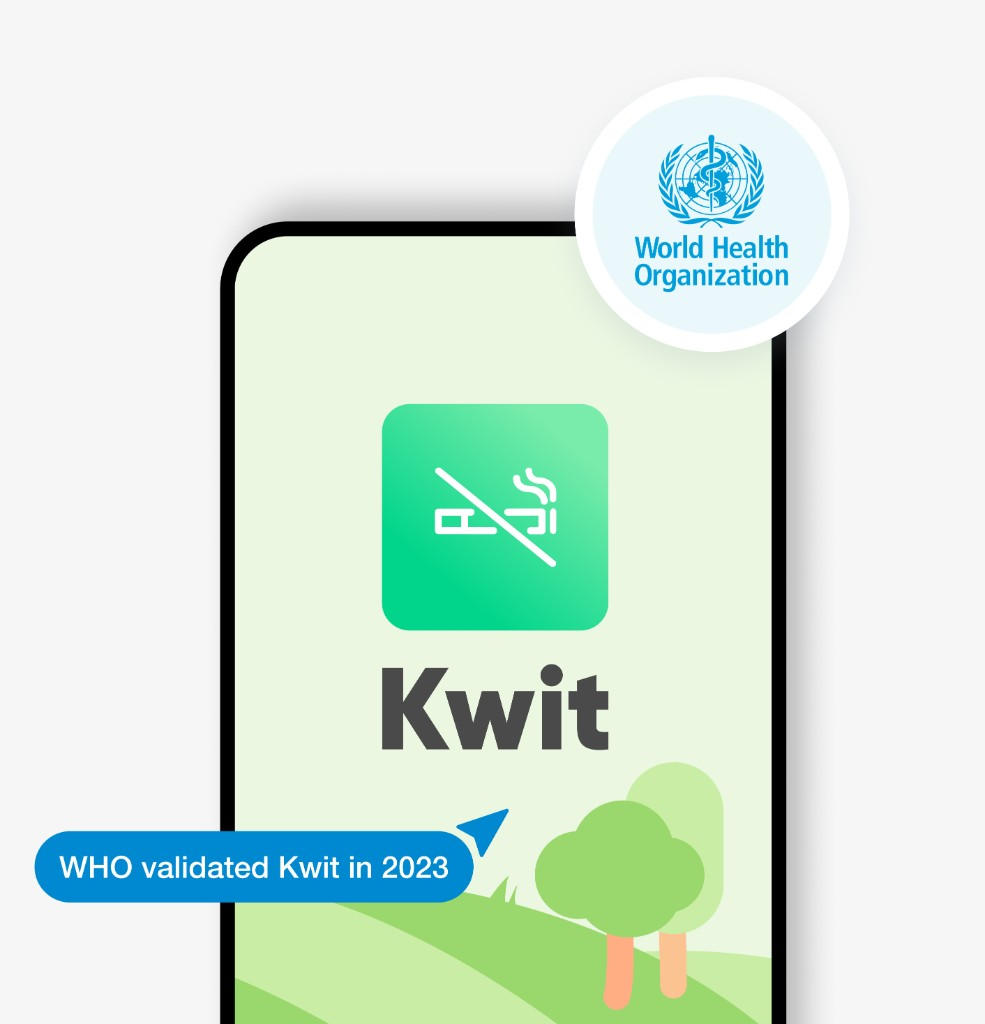
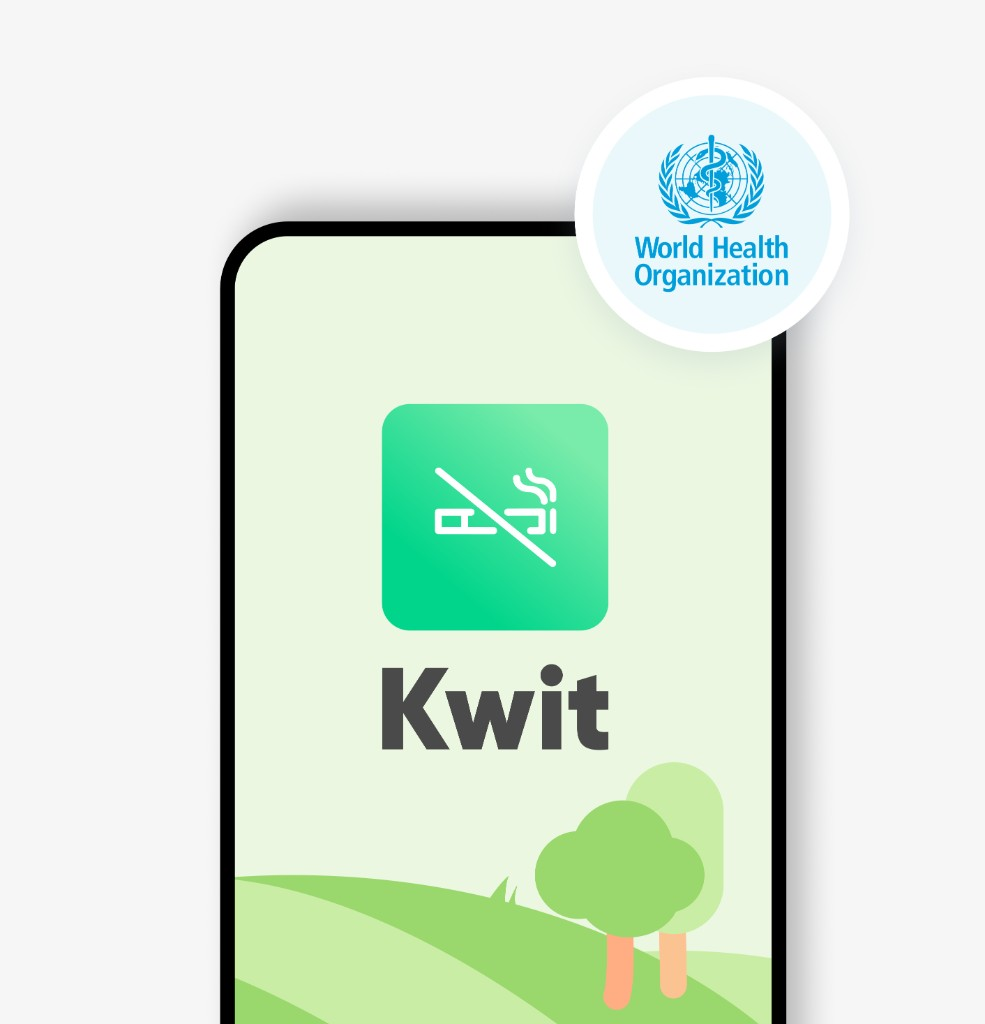
animations on hover

Changed region(s): [[0.0305, 0.7812, 0.5178, 0.9062]]

diff --git a/src/routes/+page.svelte b/src/routes/+page.svelte
@@ -56,9 +56,9 @@
 				{
 					label: 'Concept',
 					images: [
+						'/assets/sobero-illustrations.png',
 						'/assets/sobero-icons-default.png',
 						'/assets/sobero-icons-selected.png',
-						'/assets/sobero-illustrations.png',
 						'/assets/sobero-scenes.png',
 						'/assets/sobero-pictograms.png'
 					]
@@ -67,8 +67,8 @@
 					label: 'UX Design',
 					images: [
 						'/assets/sobero-strategy-01.png',
-						'/assets/sobero-strategy-02.png',
-						'/assets/sobero-strategy-03.png'
+						'/assets/sobero-strategy-03.png',
+						'/assets/sobero-strategy-02.png'
 					]
 				},
 				{ label: 'Launch' }
@@ -109,6 +109,14 @@
 	let activePage = $state('home');
 	let currentProject = $state('UX Maturity');
 	let mobileOpen = $state(false);
+	let soberoPanelEl: HTMLDivElement | null = null;
+	let soberoAnimEl: HTMLDivElement | null = null;
+	let soberoAnimVisible = $state(false);
+	let soberoAnimation: import('lottie-web').AnimationItem | null = null;
+	let kwitPanelEl: HTMLDivElement | null = null;
+	let kwitAnimEl: HTMLDivElement | null = null;
+	let kwitAnimVisible = $state(false);
+	let kwitAnimation: import('lottie-web').AnimationItem | null = null;
 
 	function show(id: string, project: string | null = null) {
 		activePage = id;
@@ -131,11 +139,92 @@
 		}
 	}
 
+	function isCoarsePointerDevice(): boolean {
+		return typeof window !== 'undefined' && window.matchMedia('(hover: none), (pointer: coarse)').matches;
+	}
+
+	async function ensureKwitAnimation() {
+		if (!kwitAnimEl || kwitAnimation) return;
+		const lottieModule = await import('lottie-web');
+		const lottie = lottieModule.default;
+		kwitAnimation = lottie.loadAnimation({
+			container: kwitAnimEl,
+			renderer: 'svg',
+			loop: true,
+			autoplay: false,
+			path: '/assets/kwit-cover-hover.json',
+			rendererSettings: {
+				preserveAspectRatio: 'xMidYMid slice'
+			}
+		});
+		kwitAnimation.goToAndStop(0, true);
+	}
+
+	async function playKwitAnimation() {
+		await ensureKwitAnimation();
+		kwitAnimVisible = true;
+		kwitAnimation?.goToAndPlay(0, true);
+	}
+
+	function stopKwitAnimation() {
+		kwitAnimation?.stop();
+		kwitAnimation?.goToAndStop(0, true);
+		kwitAnimVisible = false;
+	}
+
+	function onKwitHoverStart() {
+		if (isCoarsePointerDevice()) return;
+		void playKwitAnimation();
+	}
+
+	function onKwitHoverEnd() {
+		if (isCoarsePointerDevice()) return;
+		stopKwitAnimation();
+	}
+
+	async function ensureSoberoAnimation() {
+		if (!soberoAnimEl || soberoAnimation) return;
+		const lottieModule = await import('lottie-web');
+		const lottie = lottieModule.default;
+		soberoAnimation = lottie.loadAnimation({
+			container: soberoAnimEl,
+			renderer: 'svg',
+			loop: true,
+			autoplay: false,
+			path: '/assets/sobero-cover-hover.json',
+			rendererSettings: {
+				preserveAspectRatio: 'xMidYMid slice'
+			}
+		});
+		soberoAnimation.goToAndStop(0, true);
+	}
+
+	async function playSoberoAnimation() {
+		await ensureSoberoAnimation();
+		soberoAnimVisible = true;
+		soberoAnimation?.goToAndPlay(0, true);
+	}
+
+	function stopSoberoAnimation() {
+		soberoAnimation?.stop();
+		soberoAnimation?.goToAndStop(0, true);
+		soberoAnimVisible = false;
+	}
+
+	function onSoberoHoverStart() {
+		if (isCoarsePointerDevice()) return;
+		void playSoberoAnimation();
+	}
+
+	function onSoberoHoverEnd() {
+		if (isCoarsePointerDevice()) return;
+		stopSoberoAnimation();
+	}
+
 	function carouselStepPx(track: HTMLElement): number {
-		const img = track.querySelector('.w-panel-carousel-img') as HTMLElement | null;
-		if (!img) return track.clientWidth;
-		const gap = parseFloat(getComputedStyle(track).gap || '0') || 0;
-		return img.offsetWidth + gap;
+		// Slides are full-width (`flex: 0 0 100%` / `width: 100%`), so using the track width
+		// avoids off-by-a-few-pixels rounding that can cause the snap to pick the same slide.
+		return track.clientWidth || 0;
 	}
 
 	function syncCarouselArrows(track: HTMLElement) {
@@ -174,6 +263,9 @@
 		if (activePage !== 'work') return;
 		tick().then(() => {
 			document.querySelectorAll('.w-panel-images').forEach((node) => {
+				// Ensure each carousel starts from the first slide when opening/changing projects.
+				// Otherwise, leftover `scrollLeft` can make "placeholder positions" appear incorrect.
+				(node as HTMLElement).scrollLeft = 0;
 				syncCarouselArrows(node as HTMLElement);
 			});
 		});
@@ -258,10 +350,61 @@
 		const work = document.getElementById('strip-work');
 		let destroyHome: (() => void) | undefined;
 		let destroyWork: (() => void) | undefined;
+		let kwitObserver: IntersectionObserver | null = null;
+		let removeSoberoHoverListeners: (() => void) | undefined;
+		let removeKwitHoverListeners: (() => void) | undefined;
 		if (home) destroyHome = dragScroll(home);
 		if (work) destroyWork = dragScroll(work);
+		if (soberoPanelEl) {
+			const onEnter = () => onSoberoHoverStart();
+			const onLeave = () => onSoberoHoverEnd();
+			soberoPanelEl.addEventListener('mouseenter', onEnter);
+			soberoPanelEl.addEventListener('mouseleave', onLeave);
+			removeSoberoHoverListeners = () => {
+				soberoPanelEl?.removeEventListener('mouseenter', onEnter);
+				soberoPanelEl?.removeEventListener('mouseleave', onLeave);
+			};
+		}
+		if (kwitPanelEl) {
+			const onEnter = () => onKwitHoverStart();
+			const onLeave = () => onKwitHoverEnd();
+			kwitPanelEl.addEventListener('mouseenter', onEnter);
+			kwitPanelEl.addEventListener('mouseleave', onLeave);
+			removeKwitHoverListeners = () => {
+				kwitPanelEl?.removeEventListener('mouseenter', onEnter);
+				kwitPanelEl?.removeEventListener('mouseleave', onLeave);
+			};
+		}
+		if (kwitPanelEl) {
+			kwitObserver = new IntersectionObserver(
+				(entries) => {
+					if (!isCoarsePointerDevice()) return;
+					const entry = entries[0];
+					if (!entry) return;
+					if (entry.intersectionRatio >= 0.98) {
+						void playKwitAnimation();
+						return;
+					}
+					stopKwitAnimation();
+				},
+				{ threshold: [0, 0.98, 1] }
+			);
+			kwitObserver.observe(kwitPanelEl);
+		}
+		// Preload animated home-cover assets so first hover starts immediately.
+		void ensureKwitAnimation();
+		void ensureSoberoAnimation();
 
 		return () => {
+			removeSoberoHoverListeners?.();
+			removeKwitHoverListeners?.();
+			kwitObserver?.disconnect();
+			stopSoberoAnimation();
+			soberoAnimation?.destroy();
+			soberoAnimation = null;
+			stopKwitAnimation();
+			kwitAnimation?.destroy();
+			kwitAnimation = null;
 			destroyHome?.();
 			destroyWork?.();
 		};
@@ -465,16 +608,22 @@
 
 	<div class="home-strip" id="strip-home">
 		<div class="h-panel">
-			<div class="h-panel-bg">
+			<div class="h-panel-bg h-panel-bg--sobero" bind:this={soberoPanelEl}>
 				<img src="/assets/sobero-cover.png" alt="Sobero" />
+				<div
+					class="h-panel-lottie"
+					class:is-active={soberoAnimVisible}
+					bind:this={soberoAnimEl}
+				></div>
 			</div>
 		</div>
 		<div class="h-panel">
-			<div class="h-panel-bg">
+			<div class="h-panel-bg h-panel-bg--kwit" bind:this={kwitPanelEl}>
 				<img
 					src="/assets/kwit-cover.png"
 					alt="Kwit app with World Health Organization validation"
 				/>
+				<div class="h-panel-lottie" class:is-active={kwitAnimVisible} bind:this={kwitAnimEl}></div>
 			</div>
 		</div>
 		<div class="h-panel">
@@ -982,6 +1131,24 @@
 		transform: scale(1);
 		transition: transform 0.7s cubic-bezier(0.33, 0, 0.25, 1);
 	}
+	.h-panel-bg--sobero .h-panel-lottie,
+	.h-panel-bg--kwit .h-panel-lottie {
+		position: absolute;
+		inset: 0;
+		pointer-events: none;
+		opacity: 0;
+		transition: opacity 0.28s ease;
+	}
+	.h-panel-bg--sobero .h-panel-lottie.is-active,
+	.h-panel-bg--kwit .h-panel-lottie.is-active {
+		opacity: 1;
+	}
+	.h-panel-bg--sobero .h-panel-lottie :global(svg),
+	.h-panel-bg--kwit .h-panel-lottie :global(svg) {
+		width: 100%;
+		height: 100%;
+		display: block;
+	}
 	.w-panel-bg--placeholder {
 		background: var(--cream);
 	}
@@ -1091,12 +1258,12 @@
 		display: flex;
 		flex-flow: row nowrap;
 		gap: 0;
-		overflow-x: hidden;
+		overflow-x: auto;
 		overflow-y: hidden;
 		scroll-snap-type: x mandatory;
 		scrollbar-width: none;
 		overscroll-behavior-x: none;
-		touch-action: manipulation;
+		touch-action: none;
 		pointer-events: none;
 	}
 	.w-panel-images::-webkit-scrollbar {
@@ -1125,6 +1292,12 @@
 	@media (hover: hover) and (pointer: fine) {
 		.home-strip:not(.grabbing) .h-panel:hover .h-panel-bg img {
 			transform: scale(1.06);
+		}
+		.home-strip:not(.grabbing) .h-panel:hover .h-panel-bg--sobero img {
+			transform: scale(1);
+		}
+		.home-strip:not(.grabbing) .h-panel:hover .h-panel-bg--kwit img {
+			transform: scale(1);
 		}
 		.work-strip:not(.grabbing) .w-panel:hover .w-panel-bg .w-panel-media,
 		.work-strip:not(.grabbing) .w-panel:hover .w-panel-bg .w-panel-carousel-img {
